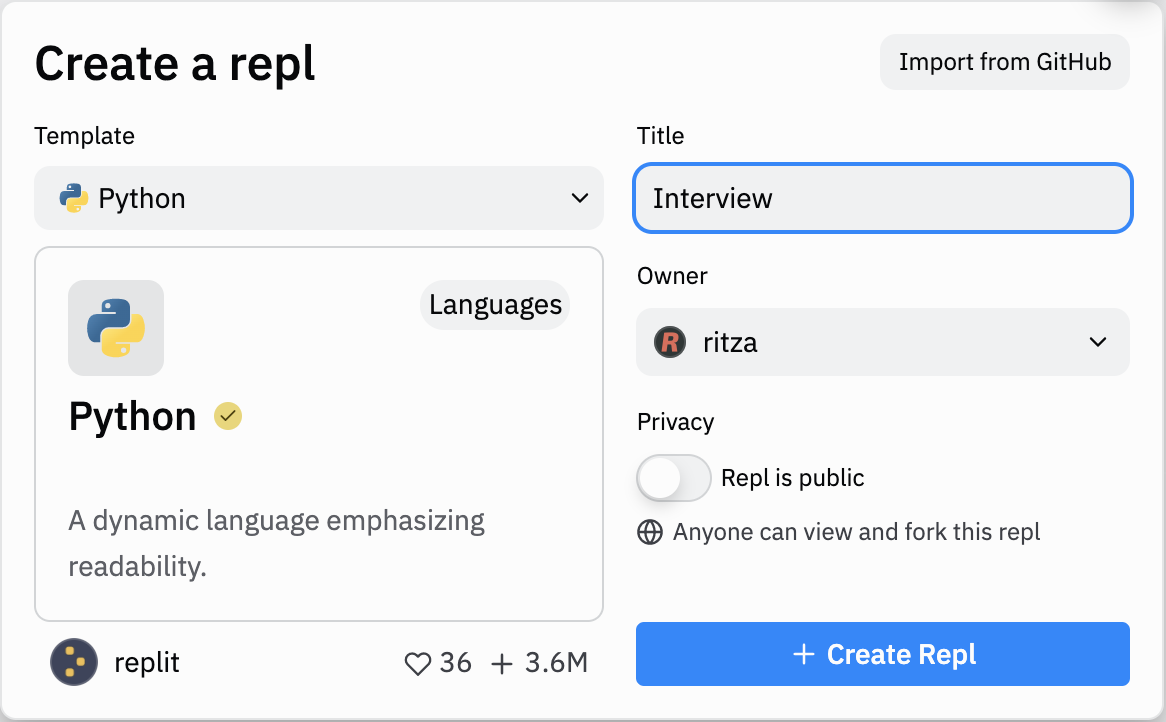
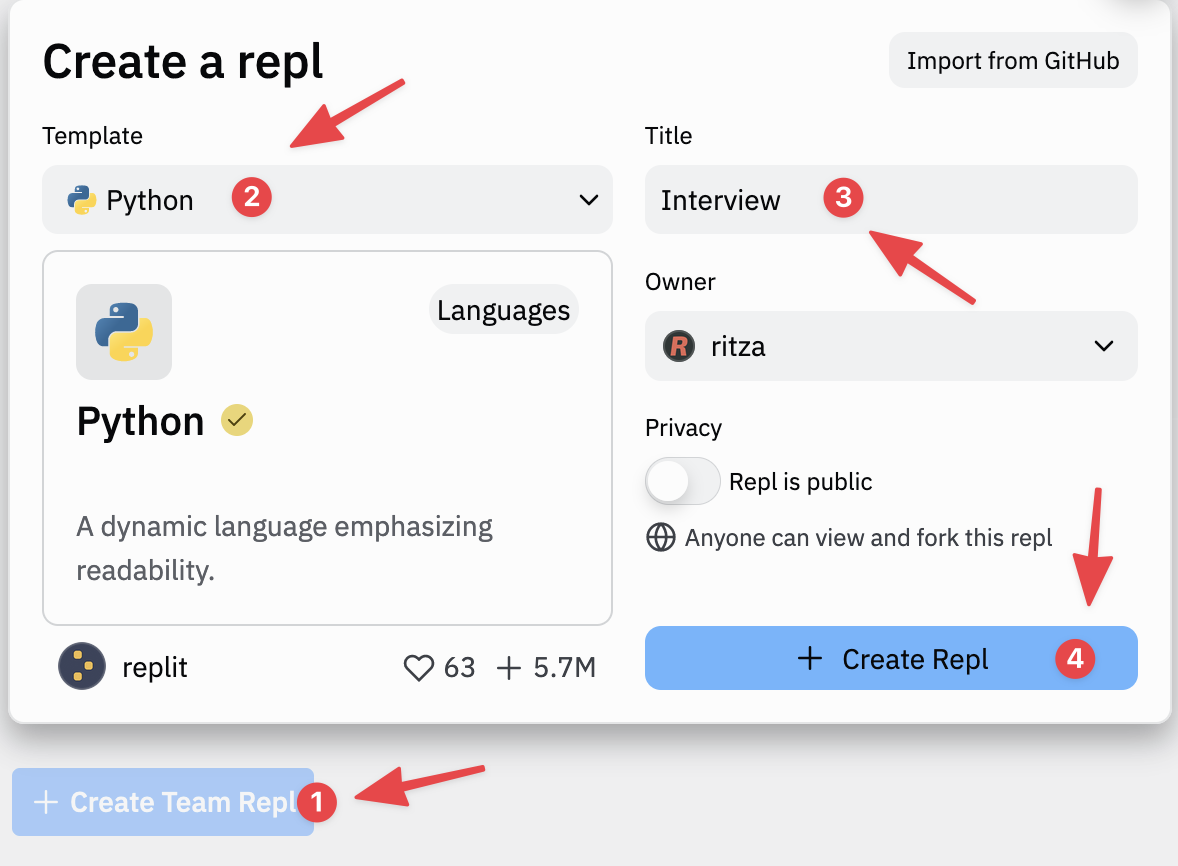
updated images on interviewing-candidates with teams pro (#282)
added the makejsgames book to the sidebar below the other books
updated links on the tutorial overview page

diff --git a/teams-pro/interviewing-candidates.md b/teams-pro/interviewing-candidates.md
@@ -21,7 +21,9 @@ To create an interview, you need to be in a team as an admin. See the documentat
 
 Navigate to the 'Teams' page. Under the 'Team Repls' section click on the 'Create team repl' button and the following popup window will appear:
 
-![create repl](/images/teamsPro/interviewing-candidates-tutorial-images/create_interview_repl.png)
+<img src="/images/teamsPro/interviewing-candidates-tutorial-images/create_interview_repl.png"
+    alt="Creating a repl"
+    style="width: 80% !important;"/>
 
 You can choose the template language you will be using for the interview and choose a suitable name, then click the 'Create repl' button at the bottom. 
 
@@ -33,11 +35,16 @@ Once the repl has been created, you will be able to add the relevant files requi
 
 Once you have written your challenges, you can invite candidates by clicking on the invite button on the top-right corner on the window.
 
-![repl invitation](/images/teamsPro/interviewing-candidates-tutorial-images/invite_members.png)
+<img src="/images/teamsPro/interviewing-candidates-tutorial-images/invite_members.png"
+    alt="repl invitation"
+    style="width: 90% !important;"/>
 
 You can invite candidates by email directly or by you can generate a join link to share with candidates. Candidates will get a notification of the invite. They will need to sign up for a Replit account before they can accept the invite to the team repl.
 
-![invite notification](/images/teamsPro/interviewing-candidates-tutorial-images/notification.png)
+
+<img src="/images/teamsPro/interviewing-candidates-tutorial-images/notification.png"
+    alt="invite notification"
+    style="width: 60% !important;"/>
 
 ## Step 3 - Observe candidates
 
@@ -47,7 +54,7 @@ You as the interviewer can observe the candidates as they complete the challenge
 
 By clicking on the round icon next to the invite button on the top-right corner, you will be able to observe the candidate's repl and see as they work on their `main.py` file. The round icon, represents the candidate in the interview.
 
-![interview window](/images/teamsPro/interviewing-candidates-tutorial-images/interview_screen.png)
+![interview window](/images/teamsPro/interviewing-candidates-tutorial-images/interview_screen.gif)
 
 Candidates can also view your IDE in the same way. This lets them see the changes you want them to make or new intructions you want to add.
 

diff --git a/tutorials/00-overview.md b/tutorials/00-overview.md
@@ -162,6 +162,14 @@ Learn more on developing Ethereum smart contracts using the Solidity programming
 
 Explore the tools provided by Replit for creating graphics, 3D worlds, games, sounds, and other more creative things.
 
+#### [Lesson 35: Build Flappy Bird with Kaboom](./35-build-flappy-bird-with-kaboom)
+
+Revisit the Kaboom game engine on Replit by building a Flappy Bird game.
+
+#### [Lesson 36: Build a physics playground with Kaboom](./35-build-flappy-bird-with-kaboom)
+
+Explore the advanced usage of the Kaboom game development framework by building a 2D physics engine.
+
 ## Other tutorials
 
 Here are some other tutorials hosted on third-party sites.

diff --git a/replit-books/makes-js-games.md b/replit-books/makes-js-games.md
@@ -1,0 +1,7 @@
+# Make Javascript Games
+
+[Make Javascript Games](https://makejsgames.com) is our free introduction to game development using Kaboom.js. The website is available as a book which you can download as a .pdf, .epub, or .mobi for offline reading.
+
+You can grab a completely free copy [here](https://makejsgames.com).
+
+These are all project based tutorials where you will build a unique game project while learning specific tools and concepts.
